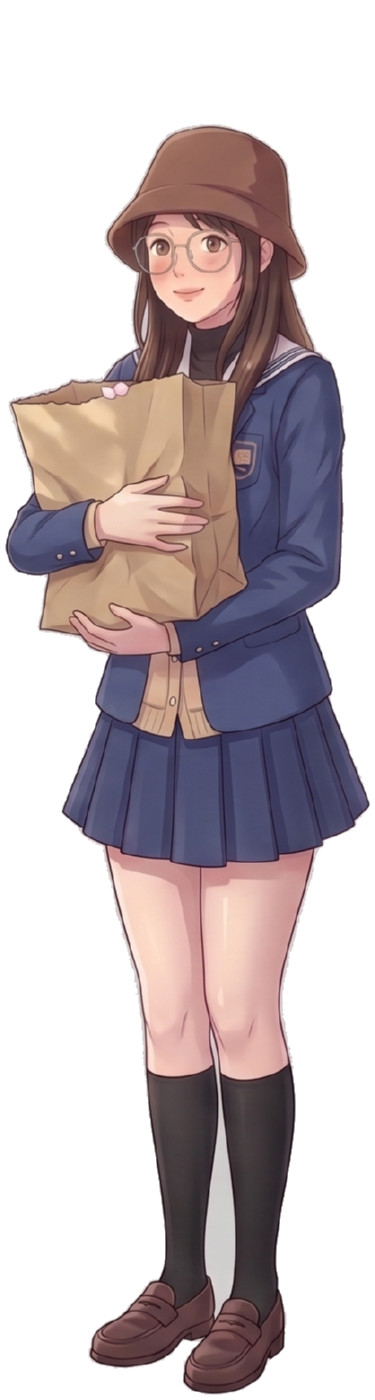
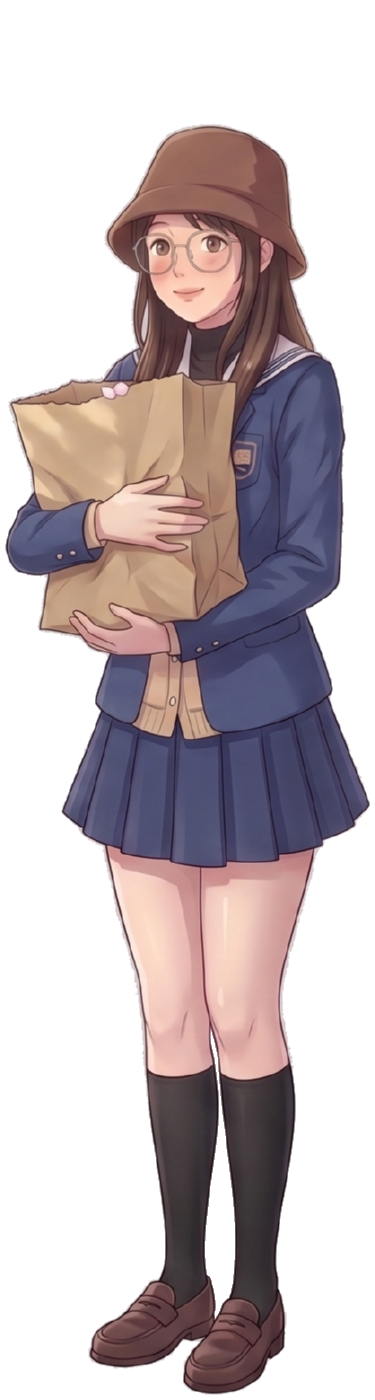
修兩個 bug、加入幕間小劇場「神秘的同學」
Bug 修正：
- 探索階段有四個發光點但只有三顆光玉，點到櫻花枝沒反應像壞掉。
  現在點到不給光玉的地方會跳提示，訊息可在劇本裡自訂。
- 女主角 pose_bag 雙腿之間的灰霧沒去乾淨。那塊離透明區約 80px，
  被原本的「離透明區很近」判斷擋掉了。改用「無彩度 + 極細長」辨識，
  只清掉那一條 3940 像素，皮膚（彩度 51）不受影響。

新增第 2、3 幕之間的幕間：走廊 → 教室黑影 → 轉身自報名號 → 憑空消失。
神秘同學 10 種表情、三張新背景。
引擎新增：畫面震動、vanish 特效、台詞可讓角色退場。

工具改進：
- 切圖找不到空白間隙時改找密度最低處，並清掉切到隔壁的殘片
- 去背清理加上亮度與彩度兩個可調參數

Changed region(s): [[0.528, 0.7371, 0.6453, 0.9521]]

diff --git a/story/story.js b/story/story.js
@@ -21,6 +21,14 @@ var CHARACTERS = {
     faces: ['smile', 'laugh', 'shy', 'troubled', 'confused', 'thinking', 'surprised', 'nervous',
             'crying', 'sad', 'angry', 'neutral', 'rage', 'flustered', 'smirk', 'deadpan']
   },
+  mystery: {
+    // 一開始只知道是「神秘的同學」，等他自報名號才換掉
+    name: '神秘的同學',
+    dir: 'assets/characters/mystery',
+    pos: 'center',
+    faces: ['neutral', 'laugh', 'sad', 'angry', 'panic',
+            'surprised', 'cool', 'lovestruck', 'smug', 'exhausted']
+  },
   heroine: {
     // 目前的劇本裡她沒有自我介紹的橋段，所以名字一開始就顯示出來。
     // 想保留「？？？」的懸念，把這裡改回 '？？？'，
@@ -75,6 +83,22 @@ var BACKGROUNDS = {
     fallback:
       'radial-gradient(circle at 18% 22%, rgba(255,170,205,.95) 0 20%, rgba(255,170,205,0) 46%),' +
       'linear-gradient(180deg,#5c86c9 0%,#9db6e0 26%,#e7c7cf 46%,#d9c3cd 58%,#9a93a6 72%,#7b7686 100%)'
+  },
+  corridor_hall: {
+    label: '教室走廊',
+    fallback: 'linear-gradient(180deg,#cfd8e4 0%,#e8e2d4 46%,#c9ad84 62%,#a8895f 100%)'
+  },
+  classroom_shadow: {
+    label: '教室・窗邊的黑影',
+    fallback:
+      'radial-gradient(ellipse 55% 70% at 30% 40%, rgba(255,196,140,.8), rgba(255,196,140,0) 70%),' +
+      'linear-gradient(180deg,#6d5642 0%,#997254 34%,#b4885f 58%,#7d6046 100%)'
+  },
+  classroom_empty: {
+    label: '教室・空無一人',
+    fallback:
+      'radial-gradient(ellipse 55% 70% at 30% 40%, rgba(255,204,150,.8), rgba(255,204,150,0) 70%),' +
+      'linear-gradient(180deg,#6d5642 0%,#997254 34%,#b4885f 58%,#7d6046 100%)'
   },
   classroom_evening: {
     label: '舊校舍教室・傍晚',
@@ -166,6 +190,8 @@ var STORY = {
           x: 1, y: 12, w: 14, h: 28,
           effect: 'petalStorm',
           repeatable: true,                          // 這個可以一直點，純粹好看
+          // 它會發光但不給光玉，點完要講一聲，不然玩家會以為壞掉
+          missHint: '……櫻花很美，但好像不是這個。',
           lines: [
             { who: 'narration', text: '一陣風掃過樹梢，花瓣整片整片地捲了下來。' },
             { who: 'narration', text: '漫天櫻花下，時間彷彿停滯了……' }
@@ -290,7 +316,7 @@ var STORY = {
         { who: 'hero',    face: 'shy',          text: '「沒事的，只要慢慢習慣就好了。」' },
         { who: 'heroine', face: 'smile',        text: '「嗯！聽昱岑同學這麼說，我好像又有勇氣了。」' }
       ],
-      next: 'act3_classroom'
+      next: 'act2x_mystery'
     },
 
     act2b_bench: {
@@ -305,7 +331,7 @@ var STORY = {
         { who: 'hero',    face: 'smile',        text: '「這很正常，換成誰都會害怕的。」' },
         { who: 'heroine', face: 'smile',        text: '「謝謝你聽我說這些，心情放鬆多了。」' }
       ],
-      next: 'act3_classroom'
+      next: 'act2x_mystery'
     },
 
     act2c_fail: {
@@ -335,6 +361,57 @@ var STORY = {
       choices: [
         { text: '回到中庭重選一次', goto: 'act1_courtyard', affection: 0 }
       ]
+    },
+
+    /* ===================================================================
+       幕間小劇場：神秘的同學
+       前半用事件圖（不放立繪，才看得到教室裡的黑影），
+       他轉過來之後才換成空教室 + 他的立繪。
+       =================================================================== */
+    act2x_mystery: {
+      type: 'dialogue',
+      bg: 'corridor_hall',
+      bgm: 'warm_daily',
+      clearChars: true,
+      lines: [
+        { who: 'narration', text: '午休結束的鐘聲響過，我們並肩走在通往教室的走廊上。' },
+        { who: 'heroine', text: '「下午第一節是……數學對吧？」' },
+        { who: 'hero',    text: '「嗯。而且我昨天的習題還沒寫完。」' },
+
+        // 進教室，看見黑影
+        { who: 'narration', bg: 'classroom_shadow', effect: 'flash',
+          text: '推開教室門的瞬間，我們兩個同時停住了腳步。' },
+        { who: 'narration', text: '夕陽的逆光裡，窗邊坐著一個同學。背對著我們，一動也不動地寫著什麼。' },
+        { who: 'narration', text: '整間教室只有他一個人，連呼吸的聲音都聽不見。' },
+
+        { who: 'heroine', text: '「……那個人，是我們班的嗎？」' },
+        { who: 'hero',    text: '「不知道。我從開學到現在，好像沒看過那個位子有人坐。」' },
+        { who: 'heroine', text: '「他從剛剛就完全沒有動耶……要不要叫他一下？」' },
+        { who: 'hero',    text: '「等等，萬一他在專心讀書……」' },
+        { who: 'narration', text: '我們壓低聲音議論了半天，那個背影始終沒有回頭。' },
+        { who: 'narration', text: '就在孟格終於忍不住往前踏出一步的時候——' },
+
+        // 猛然轉身
+        { who: 'mystery', face: 'surprised', bg: 'classroom_empty', effect: 'shake',
+          text: '「——來者何人。」' },
+        { who: 'narration', text: '他猛然轉了過來。' },
+        { who: 'mystery', face: 'smug',  text: '「稱呼在下『美女母狗』即可。」' },
+        // 神秘同學站在畫面正中央，這兩句刻意不放男女主角的立繪，
+        // 不然三個人並排會疊在一起。只顯示名字反而更像被嚇到說不出話。
+        { who: 'hero',    text: '「……蛤？」' },
+        { who: 'heroine', text: '「美、美女……什麼？」' },
+        { who: 'mystery', face: 'cool',  text: '「在下正出發去尋找水上人力車。就此別過。」' },
+
+        // 憑空消失
+        { who: 'narration', effect: 'vanish', hide: 'mystery',
+          text: '話音未落，那個位子上已經空無一人。' },
+        { who: 'narration', text: '椅子甚至沒有發出被推開的聲音。' },
+
+        { who: 'heroine', face: 'surprised', text: '「……剛剛那個，真的存在嗎？」' },
+        { who: 'hero',    face: 'confused',  text: '「至少我們兩個都看到了……大概吧。」' },
+        { who: 'narration', text: '窗外的夕陽，把兩張呆掉的臉照得通紅。' }
+      ],
+      next: 'act3_classroom'
     },
 
     /* ===================================================================

diff --git a/assets/js/engine.js b/assets/js/engine.js
@@ -306,6 +306,13 @@ var Game = (function () {
   function showLine(line) {
     if (line.rename && line.who) state.names[line.who] = line.rename;
     if (line.bg) setBackground(line.bg);
+
+    // hide: 'charId' 讓某個角色從畫面上退場（配合 vanish 特效就是憑空消失）
+    if (line.hide) {
+      var gone = el.chars.querySelector('[data-char="' + line.hide + '"]');
+      if (gone) gone.classList.add('hidden');
+    }
+
     if (line.effect) runEffect(line.effect, 640, 360);
 
     var isNarration = !line.who || line.who === 'narration';
@@ -377,6 +384,12 @@ var Game = (function () {
       Effects.flash(0.35, 600);
     } else if (name === 'flash') {
       Effects.flash();
+    } else if (name === 'shake') {
+      Effects.shake();
+    } else if (name === 'vanish') {
+      // 憑空消失：白光一閃再震一下
+      Effects.flash(0.9, 700);
+      Effects.shake(10, 420);
     }
   }
 
@@ -645,6 +658,12 @@ var Game = (function () {
 
       // 光玉要飛回計數器，所以先把計數器放回畫面上
       el.orbBar.hidden = false;
+
+      // 會發光但不給光玉的地方，要講清楚，不然玩家會以為是 bug。
+      // 彩蛋（secret）本來就不發光，玩家沒有在期待光玉，所以不提示。
+      if (!h.orb && !h.secret) {
+        toast(h.missHint || '……好像不是這個。');
+      }
 
       if (giveOrb) {
         Effects.orbFly(cx, cy, function () {

diff --git a/assets/js/effects.js b/assets/js/effects.js
@@ -181,6 +181,36 @@ var Effects = (function () {
     setTimeout(finish, 1040);
   }
 
+  /**
+   * 畫面震動。
+   * stage 的 transform 是由引擎的 fitStage 在管的（置中 + 縮放），
+   * 所以震動不能直接改它，改用外層的 viewport 來位移。
+   */
+  function shake(strength, ms) {
+    var vp = document.getElementById('viewport');
+    if (!vp || vp._shaking) return;
+    vp._shaking = true;
+
+    strength = strength || 14;
+    ms = ms || 520;
+    var t0 = Date.now();
+
+    var timer = setInterval(function () {
+      var p = (Date.now() - t0) / ms;
+      if (p >= 1) {
+        clearInterval(timer);
+        vp.style.transform = '';
+        vp._shaking = false;
+        return;
+      }
+      // 幅度隨時間衰減
+      var a = strength * (1 - p);
+      var dx = (Math.random() * 2 - 1) * a;
+      var dy = (Math.random() * 2 - 1) * a;
+      vp.style.transform = 'translate(' + dx.toFixed(1) + 'px,' + dy.toFixed(1) + 'px)';
+    }, 16);
+  }
+
   /** 在畫面某處亮起一團柔光，然後淡掉 */
   function glow(x, y, radius, ms) {
     radius = radius || 180;
@@ -252,6 +282,7 @@ var Effects = (function () {
     petalStorm: petalStorm,
     clear: clear,
     flash: flash,
+    shake: shake,
     glow: glow,
     orbFly: orbFly,
     dangoDoodle: dangoDoodle
